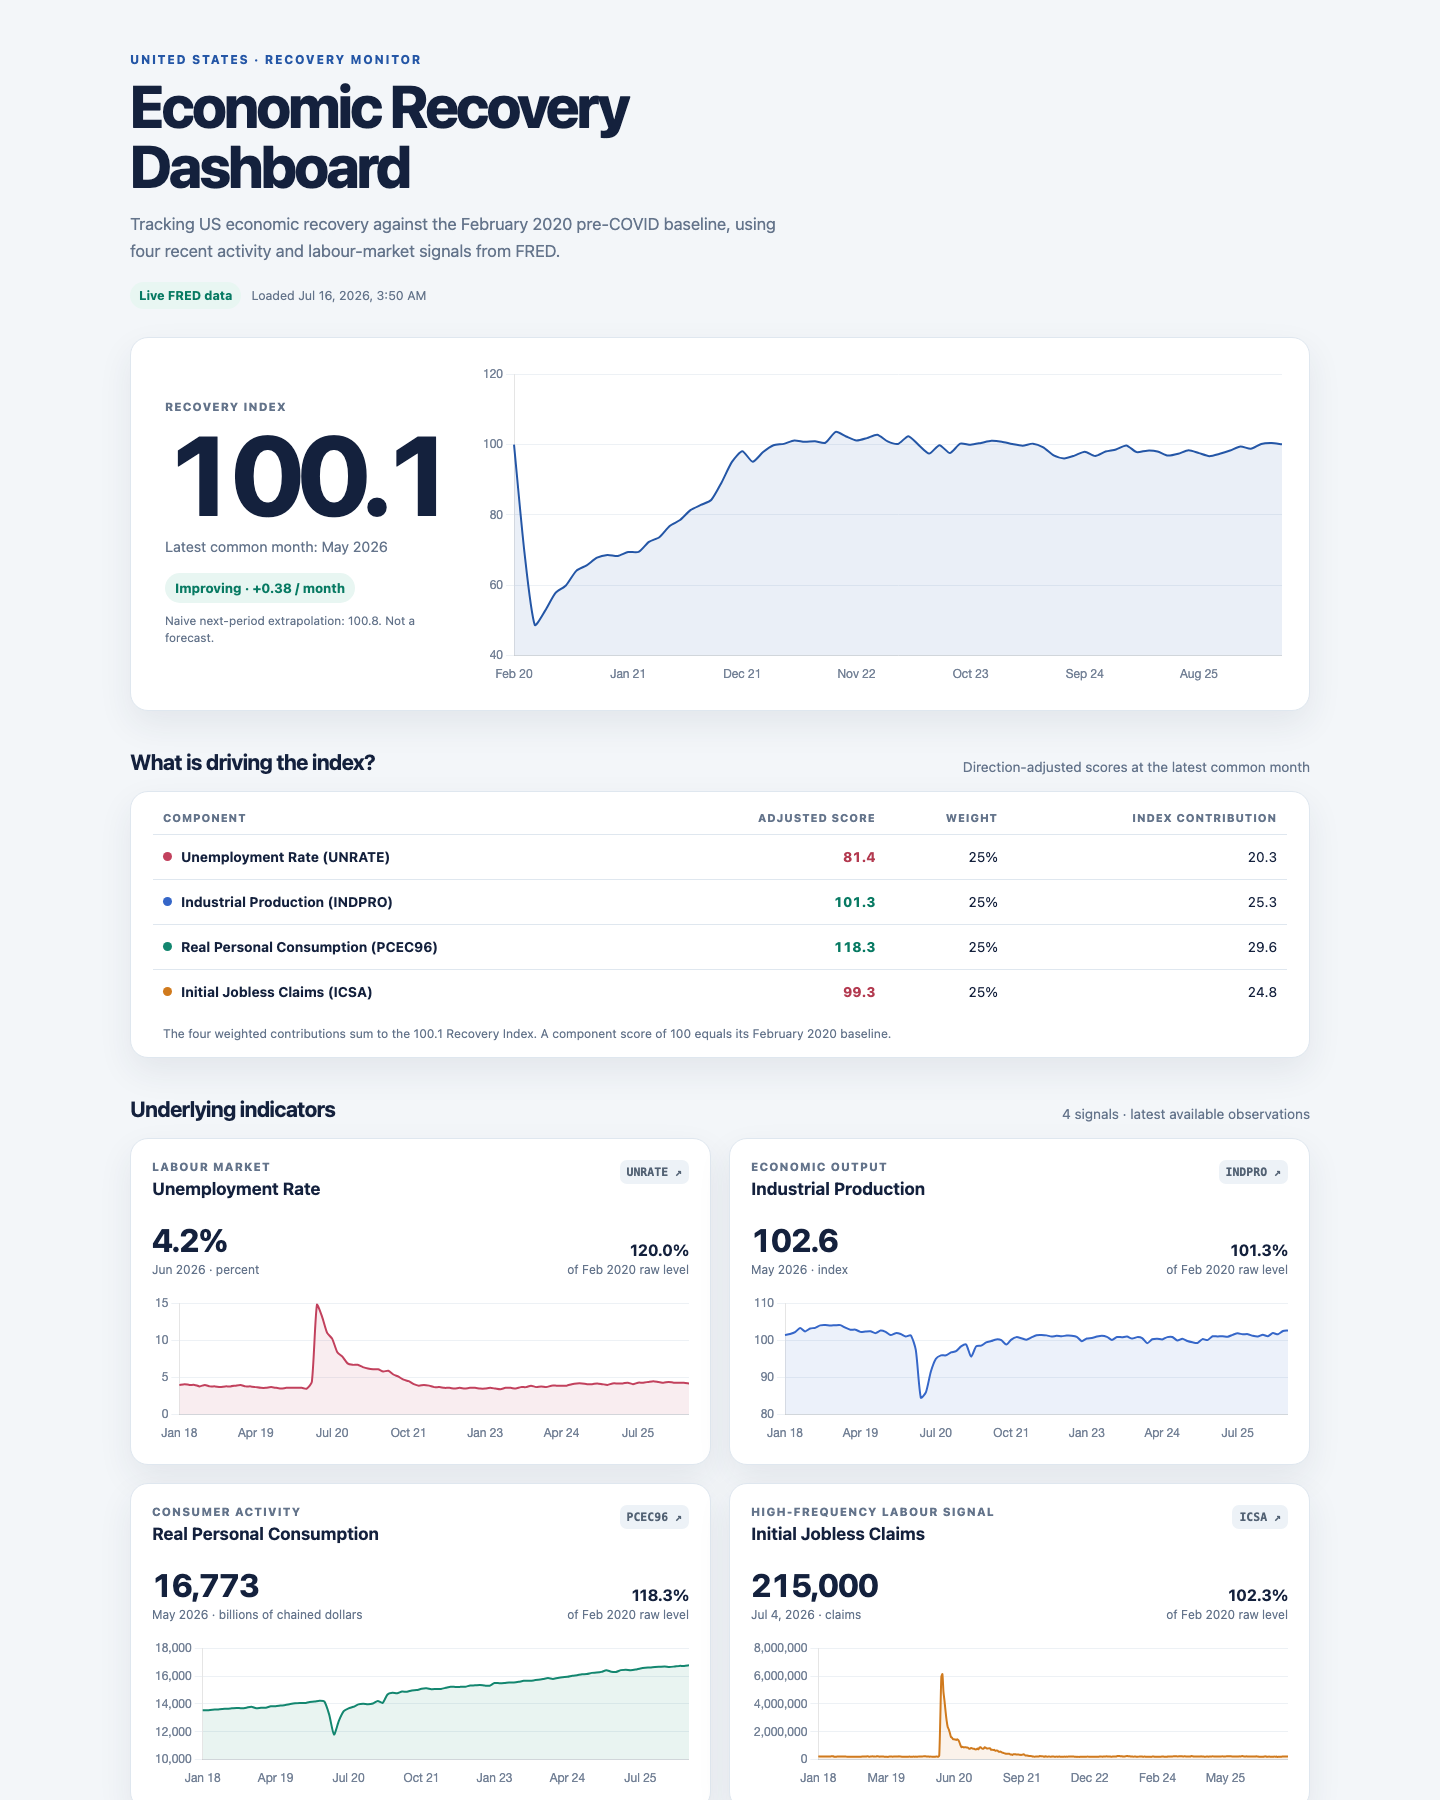
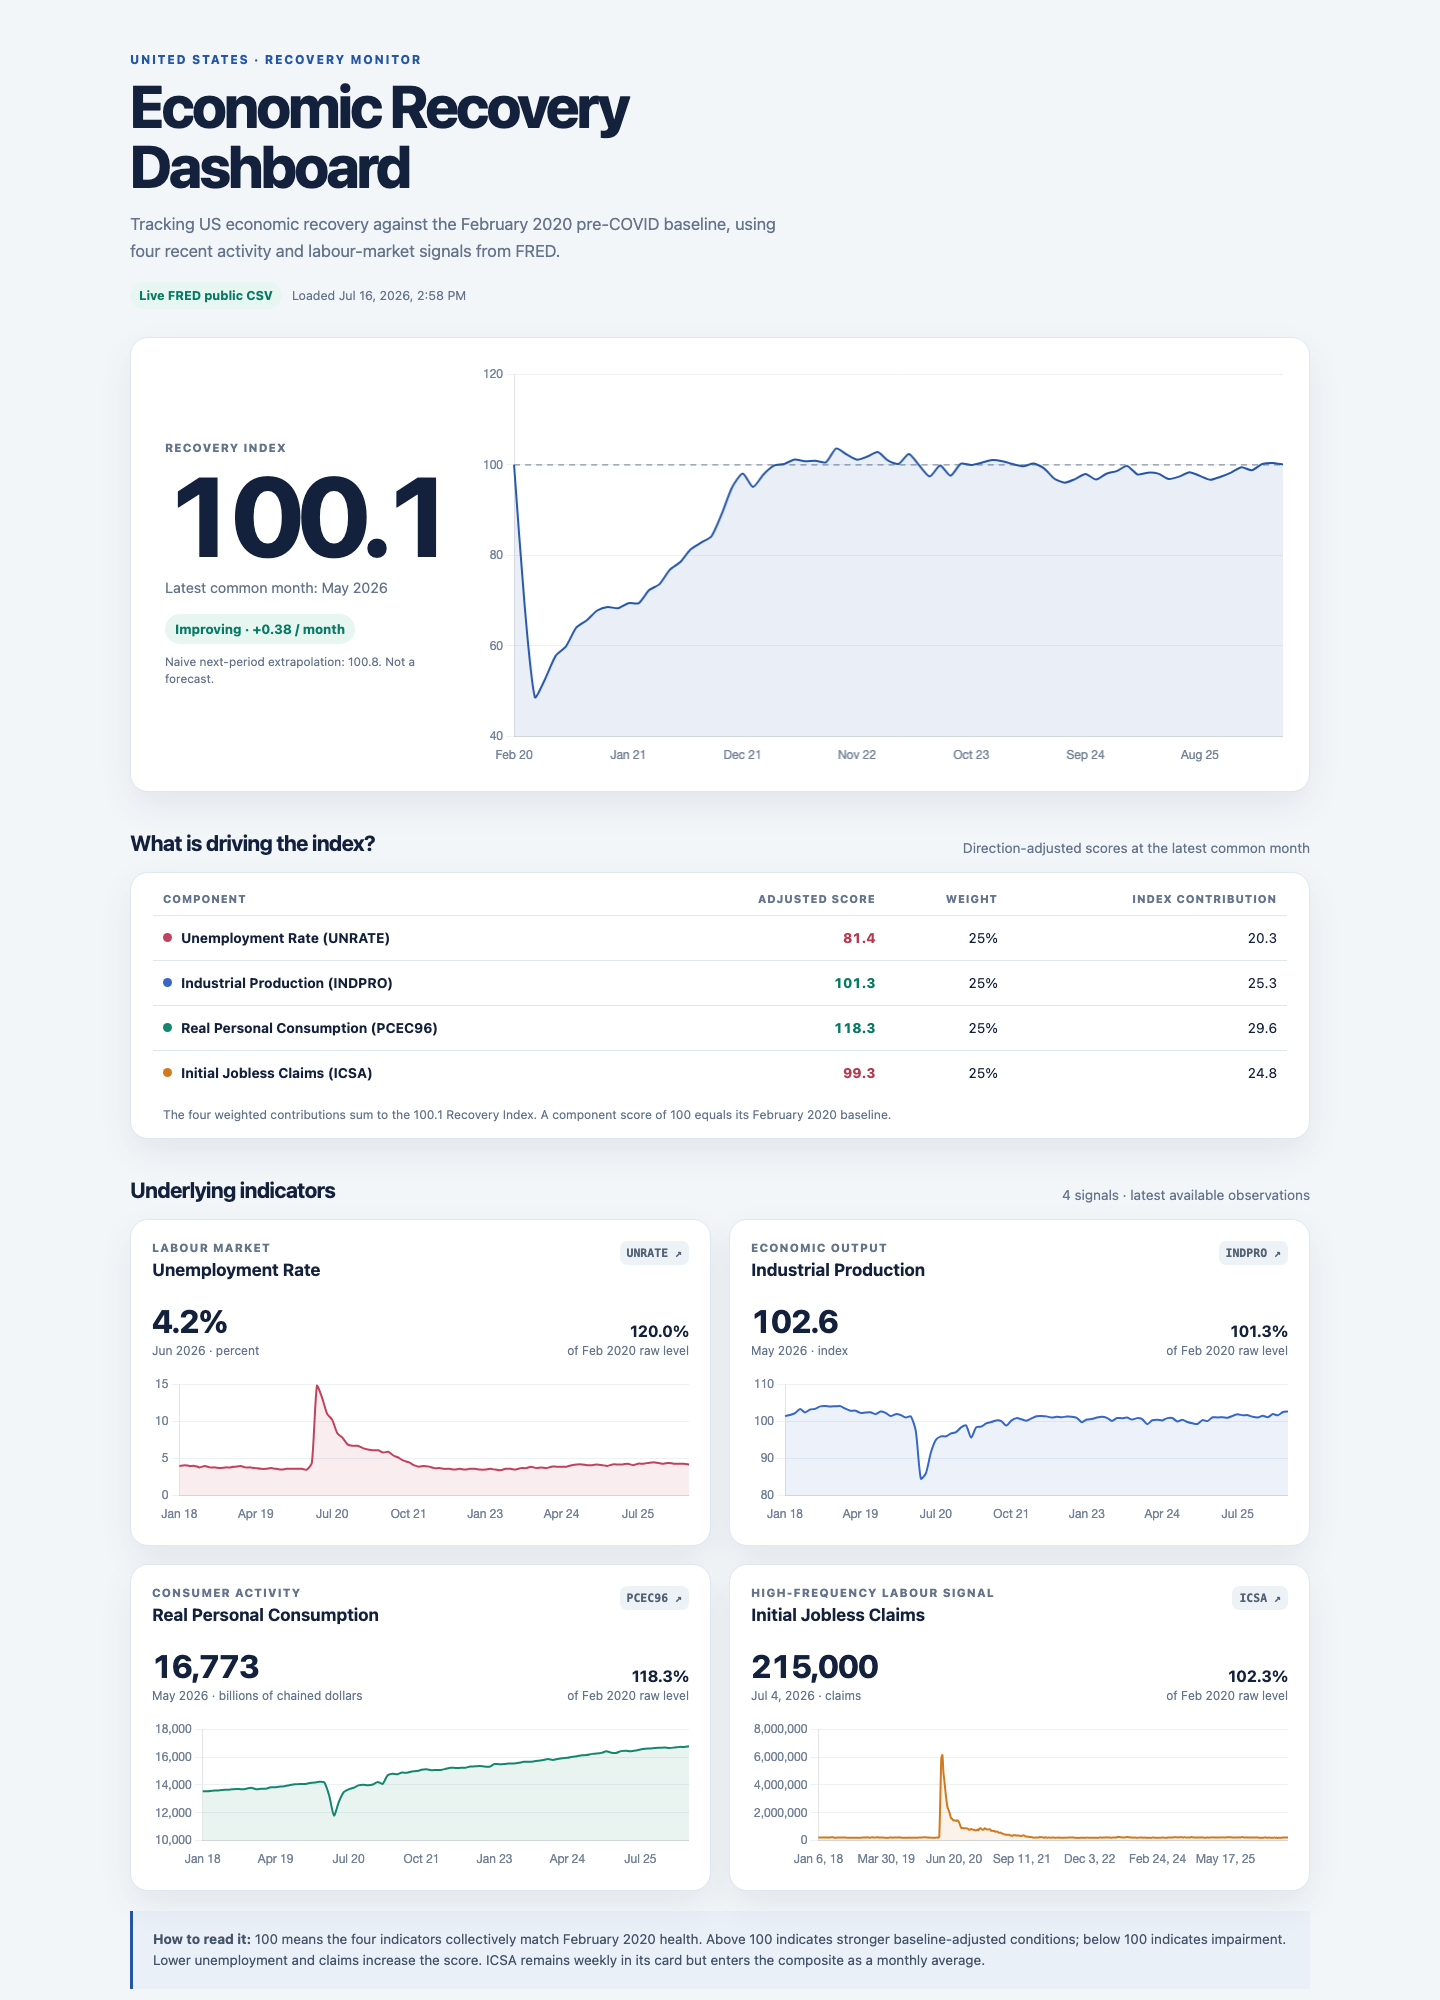
Polish dashboard for final submission

diff --git a/app/templates/index.html b/app/templates/index.html
@@ -71,6 +71,7 @@
       .data-meta {
         display: flex;
         align-items: center;
+        flex-wrap: wrap;
         gap: 10px;
         margin-top: 17px;
         color: var(--muted);
@@ -450,11 +451,12 @@
         }).format(date);
       }
 
-      function formatChartDate(dateString) {
+      function formatChartDate(dateString, includeDay = false) {
         const date = new Date(`${dateString}T00:00:00Z`);
         return new Intl.DateTimeFormat("en-US", {
           year: "2-digit",
           month: "short",
+          ...(includeDay ? { day: "numeric" } : {}),
           timeZone: "UTC",
         }).format(date);
       }
@@ -480,22 +482,36 @@
         return payload;
       }
 
-      function lineChart(canvas, labels, values, color, label) {
+      function lineChart(canvas, labels, values, color, label, baselineValue = null) {
+        const datasets = [{
+          label,
+          data: values,
+          borderColor: color,
+          backgroundColor: `${color}18`,
+          borderWidth: 2,
+          pointRadius: 0,
+          pointHoverRadius: 4,
+          fill: true,
+          tension: 0.22,
+        }];
+        if (typeof baselineValue === "number") {
+          datasets.push({
+            label: "Feb 2020 baseline",
+            data: labels.map(() => baselineValue),
+            borderColor: "#8793a4",
+            borderDash: [6, 5],
+            borderWidth: 1.3,
+            pointRadius: 0,
+            pointHoverRadius: 0,
+            fill: false,
+          });
+        }
+
         const chart = new Chart(canvas, {
           type: "line",
           data: {
             labels,
-            datasets: [{
-              label,
-              data: values,
-              borderColor: color,
-              backgroundColor: `${color}18`,
-              borderWidth: 2,
-              pointRadius: 0,
-              pointHoverRadius: 4,
-              fill: true,
-              tension: 0.22,
-            }],
+            datasets,
           },
           options: {
             responsive: true,
@@ -545,6 +561,7 @@
           payload.series.map((point) => point.value),
           "#2456a6",
           "Recovery Index",
+          100,
         );
       }
 
@@ -619,7 +636,9 @@
           cards.appendChild(card);
           lineChart(
             card.querySelector("canvas"),
-            indicator.series.map((point) => formatChartDate(point.date)),
+            indicator.series.map((point) =>
+              formatChartDate(point.date, indicator.frequency === "weekly")
+            ),
             indicator.series.map((point) => point.value),
             indicator.color,
             indicator.label,

diff --git a/app/main.py b/app/main.py
@@ -6,7 +6,7 @@ import asyncio
 from pathlib import Path
 
 from dotenv import load_dotenv
-from fastapi import FastAPI, Request
+from fastapi import FastAPI, Request, Response
 from fastapi.responses import JSONResponse
 from fastapi.templating import Jinja2Templates
 
@@ -48,7 +48,7 @@ async def recovery_error_handler(
 
 
 @app.get("/", include_in_schema=False)
-async def dashboard(request: Request):
+async def dashboard(request: Request) -> Response:
     """Render the shell; browser JavaScript loads current JSON data."""
 
     return templates.TemplateResponse(

diff --git a/tests/test_routes.py b/tests/test_routes.py
@@ -39,6 +39,8 @@ class RouteTests(unittest.IsolatedAsyncioTestCase):
 
         self.assertEqual(dashboard.status_code, 200)
         self.assertIn("Economic Recovery Dashboard", dashboard.text)
+        self.assertIn("Data connection", dashboard.text)
+        self.assertIn('label: "Feb 2020 baseline"', dashboard.text)
         self.assertEqual(health.json(), {"status": "ok"})
 
     async def test_data_endpoints_return_expected_contracts(self) -> None:

diff --git a/README.md b/README.md
@@ -134,6 +134,7 @@ The February 2020 ICSA baseline is therefore the February calendar-month average
 
 - **One country and four indicators:** enough breadth to tell a coherent recovery story without turning the exercise into a data-platform project.
 - **No database or distributed cache:** live FRED observations are held in a process-local dictionary for 12 hours. Restarting the process clears the memory cache, and multiple workers would have independent caches; both are acceptable for a local prototype.
+- **Request-driven refresh:** the first request after the 12-hour TTL fetches current observations; there is no background scheduler. This keeps the prototype small while still updating regularly when used.
 - **Optional API authentication:** the official FRED REST route is preferred when a key is configured. Public CSV remains a deliberate compatibility path for reviewers who cannot create or use a FRED account; both routes use the same chosen FRED series.
 - **Downloaded fallback data:** `data/*.csv` keeps the demonstration functional during a FRED/network outage. These snapshots can become stale, so configured live FRED routes are always attempted first after the cache expires.
 - **No authentication, Docker, or frontend framework:** these would add setup and code without strengthening the evaluated end-to-end data slice.